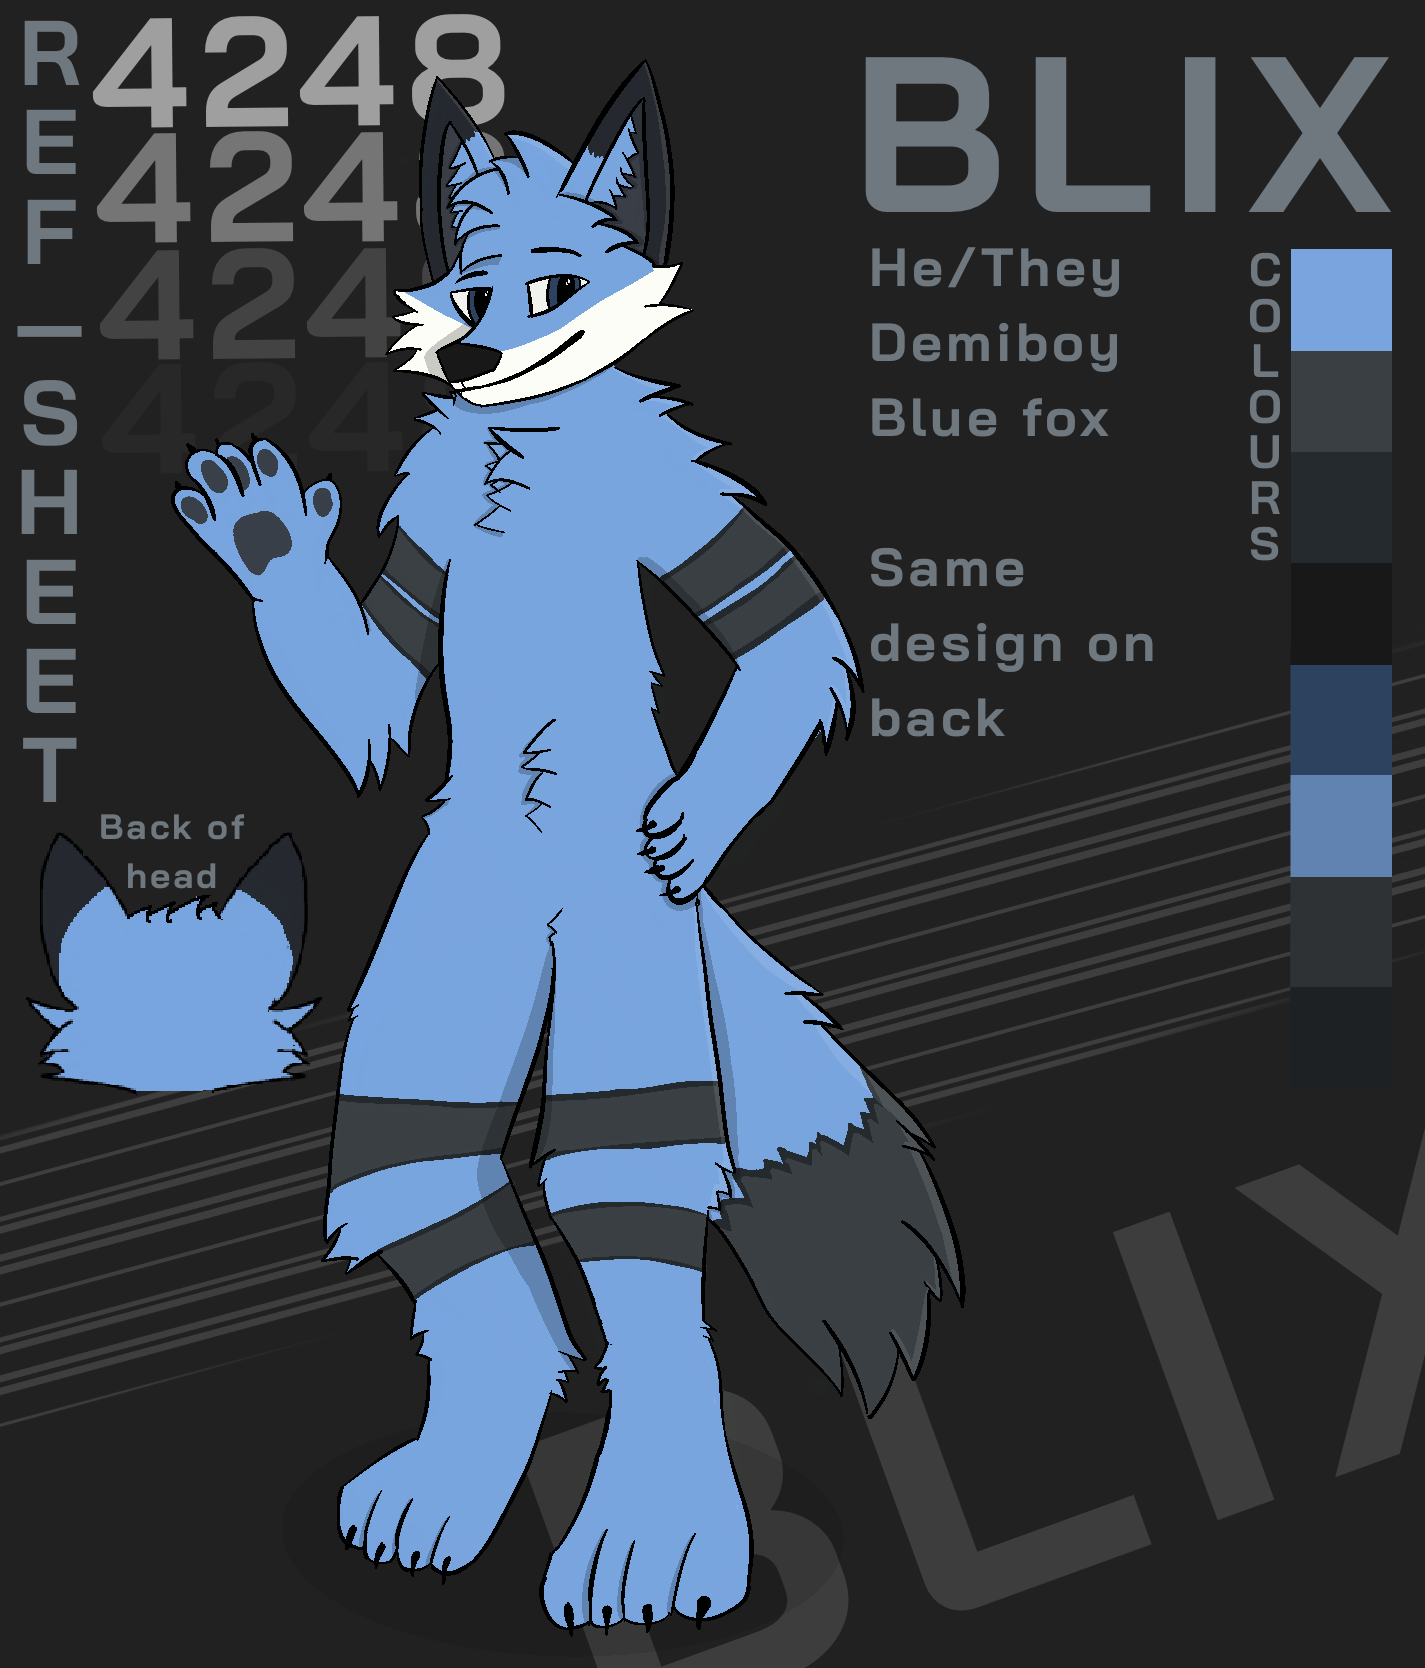
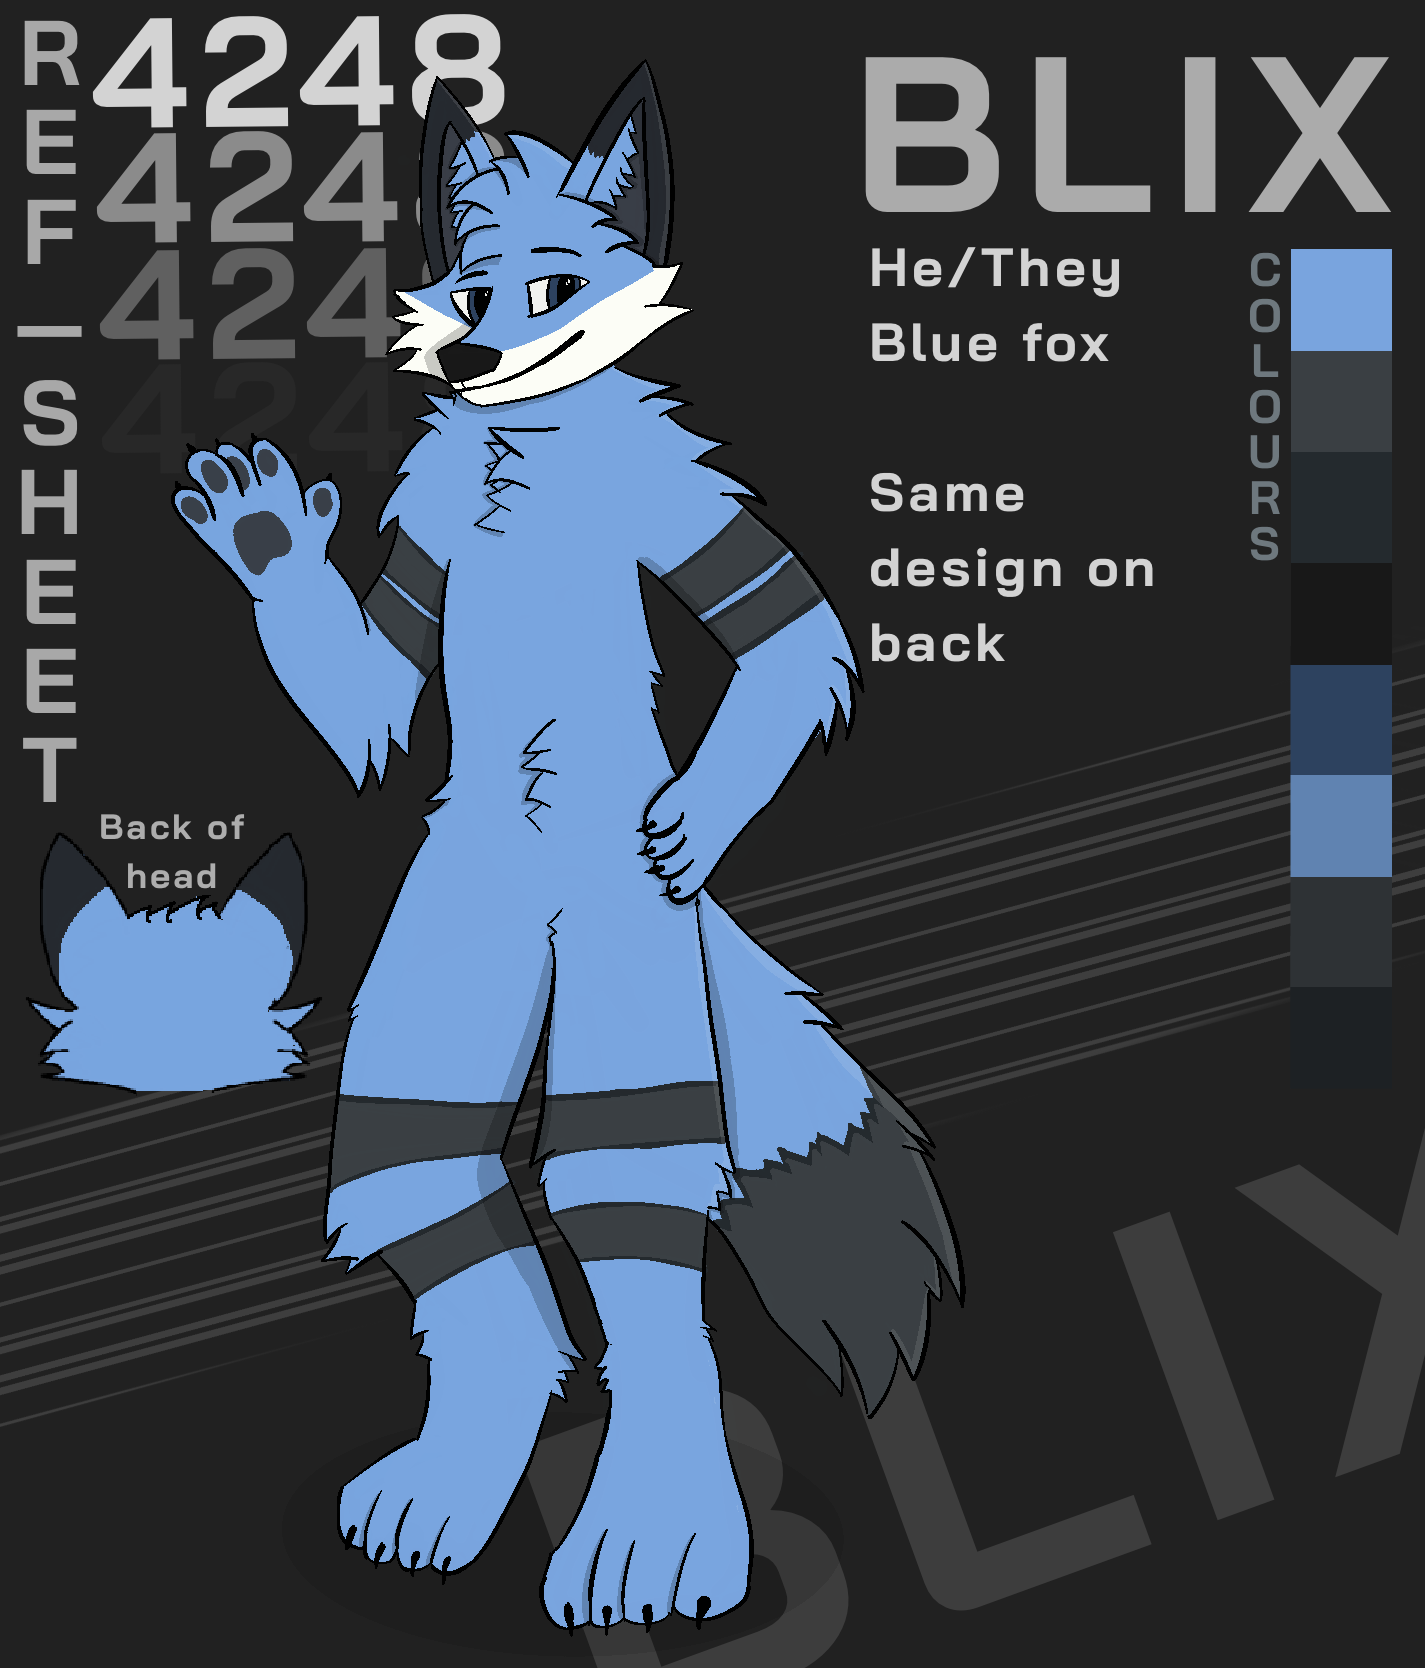
Update ref sheet

Changed region(s): [[0.5867, 0.0312, 0.9881, 0.4676], [0.0, 0.1247, 0.2779, 0.53], [0.0, 0.0, 0.3705, 0.1559]]

diff --git a/pages/blix/index.html b/pages/blix/index.html
@@ -91,7 +91,7 @@
                 <h3 id="key-features">Key features</h3>
                 <ul>
                     <li>Fox breed</li>
-                    <li>Demiboy (he/him, they/them)</li>
+                    <li>he/they</li>
                     <li>Blue, white, light grey and dark grey fur
                         <ul>
                             <li>White parts are below nose and go to sides</li>
